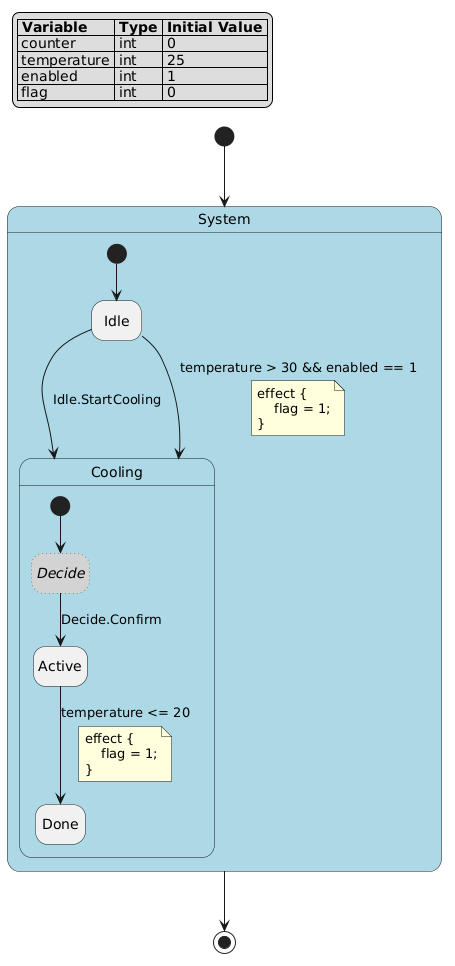
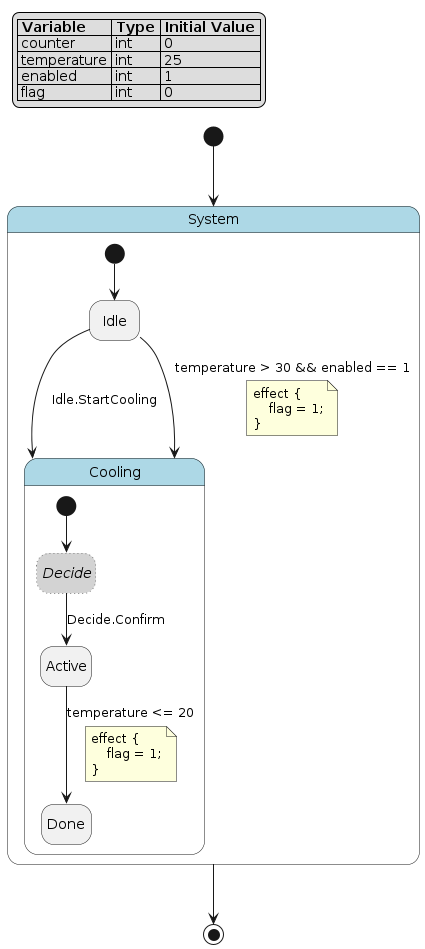
fix(acceptance): align artifact CI validation [skip-slow]
- resolve versioned standalone CLI paths consistently across build workflows\n- install and verify mutool for PDF validation and pin generated diagrams to the CI PlantUML version\n- support standard-library metadata on modern Python and Click error wording variants

diff --git a/test/entry/test_inspect.py b/test/entry/test_inspect.py
@@ -337,10 +337,10 @@ class TestEntryInspect:
         )
 
         assert result.exitcode != 0
-        assert "No such option: --max-complexity-tier" in (
-            result.stderr or result.stdout
-        )
-        assert "Input DSL file not found" not in (result.stderr or result.stdout)
+        message = result.stderr or result.stdout
+        assert "No such option" in message
+        assert "--max-complexity-tier" in message
+        assert "Input DSL file not found" not in message
 
     def test_build_inspect_json_rejects_unknown_policy_before_reading_input(self):
         with pytest.raises(
@@ -391,9 +391,9 @@ class TestEntryInspect:
         )
 
         assert result.exitcode != 0
-        assert "No such option: --max-call-count-scaling" in (
-            result.stderr or result.stdout
-        )
+        message = result.stderr or result.stdout
+        assert "No such option" in message
+        assert "--max-call-count-scaling" in message
 
     def test_build_inspect_json_accepts_zero_smt_timeout(self, inspect_code_file):
         payload = json.loads(

diff --git a/tools/resources.py b/tools/resources.py
@@ -20,7 +20,12 @@ import os.path
 import platform
 from typing import Iterator, Mapping, Optional, Sequence, Tuple
 
-import importlib_metadata
+try:
+    from importlib import metadata as importlib_metadata
+except ImportError:
+    # Python 3.7 does not provide importlib.metadata, so the supported legacy
+    # interpreter uses the importlib-metadata backport from requirements.txt.
+    import importlib_metadata
 
 
 ResourceMapping = Tuple[str, str]
@@ -136,7 +141,7 @@ def get_executable_path(dist_dir: str = "dist") -> str:
         True
     """
     suffix = ".exe" if os.name == "nt" else ""
-    return os.path.join(dist_dir, get_executable_name() + suffix)
+    return os.path.join(dist_dir, get_executable_name() + suffix).replace(os.sep, "/")
 
 
 class ResourceCollectionError(RuntimeError):